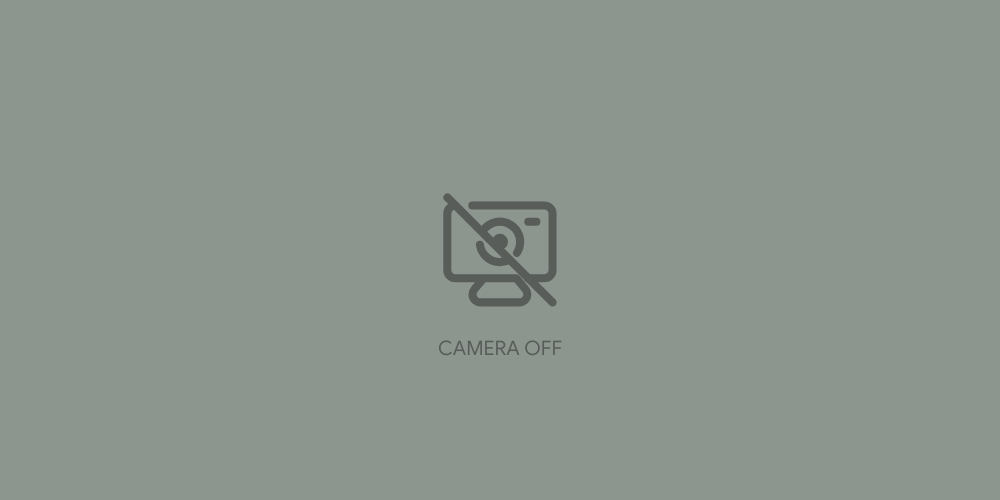
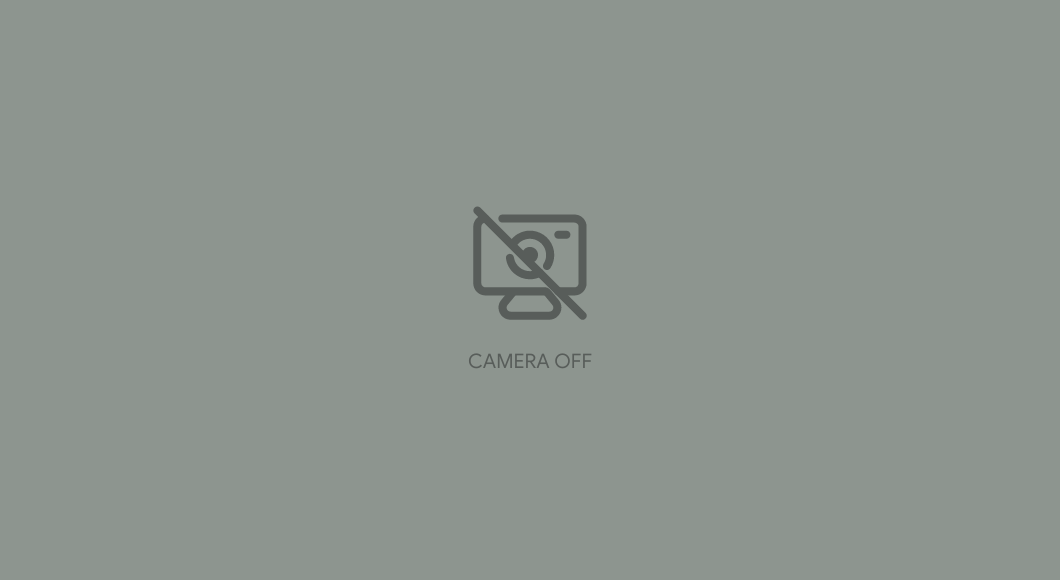
modified feature

Changed region(s): [[0.434, 0.36, 0.558, 0.63], [0.434, 0.66, 0.558, 0.72]]

diff --git a/main.py b/main.py
@@ -1,16 +1,16 @@
-import psutil
 import os
 import time
 import threading
 
 import tkinter as tk
+from tkinter import *
 from tkinter import ttk, messagebox
 
 from PIL import Image, ImageTk
 
 
 # variables
-isCameraOn = True
+isCameraOn = False
 
 
 # functions
@@ -41,7 +41,7 @@ def close_btn_msgbox():
 
 
 # Create and initialize the main application window
-root = tk.Tk()
+root = Tk()
 img = tk.PhotoImage(file="res/pcbDefect.png")
 root.minsize(1080, 600)
 root.resizable(False, False)
@@ -50,8 +50,8 @@ root.iconphoto(False, img)
 
 
 # Canvas
-cameraFeed = tk.Canvas(root, borderwidth=2, relief="solid", bg="gray", height=500, width=1000)
-cameraFeed.place(x=35, y=20)
+cameraFeed = tk.Canvas(root, borderwidth=2, relief="solid", bg="gray", height=580, width=1060)
+cameraFeed.place(x=5, y=5)
 
 
 # Camera Feed Placeholder
@@ -62,10 +62,12 @@ placeholder_camOff = ImageTk.PhotoImage(Image.open("res/camOff.png"))
 # adding image to feed
 display_feed(isCameraOn)
 
-
+"""
 # Toggle button
 btnCameraToggle = ttk.Button(root, text="Turn Camera OFF", command=update_label_text)
 btnCameraToggle.pack(side="bottom", pady=22.5)
+#
+"""
 
 
 # Close Button
